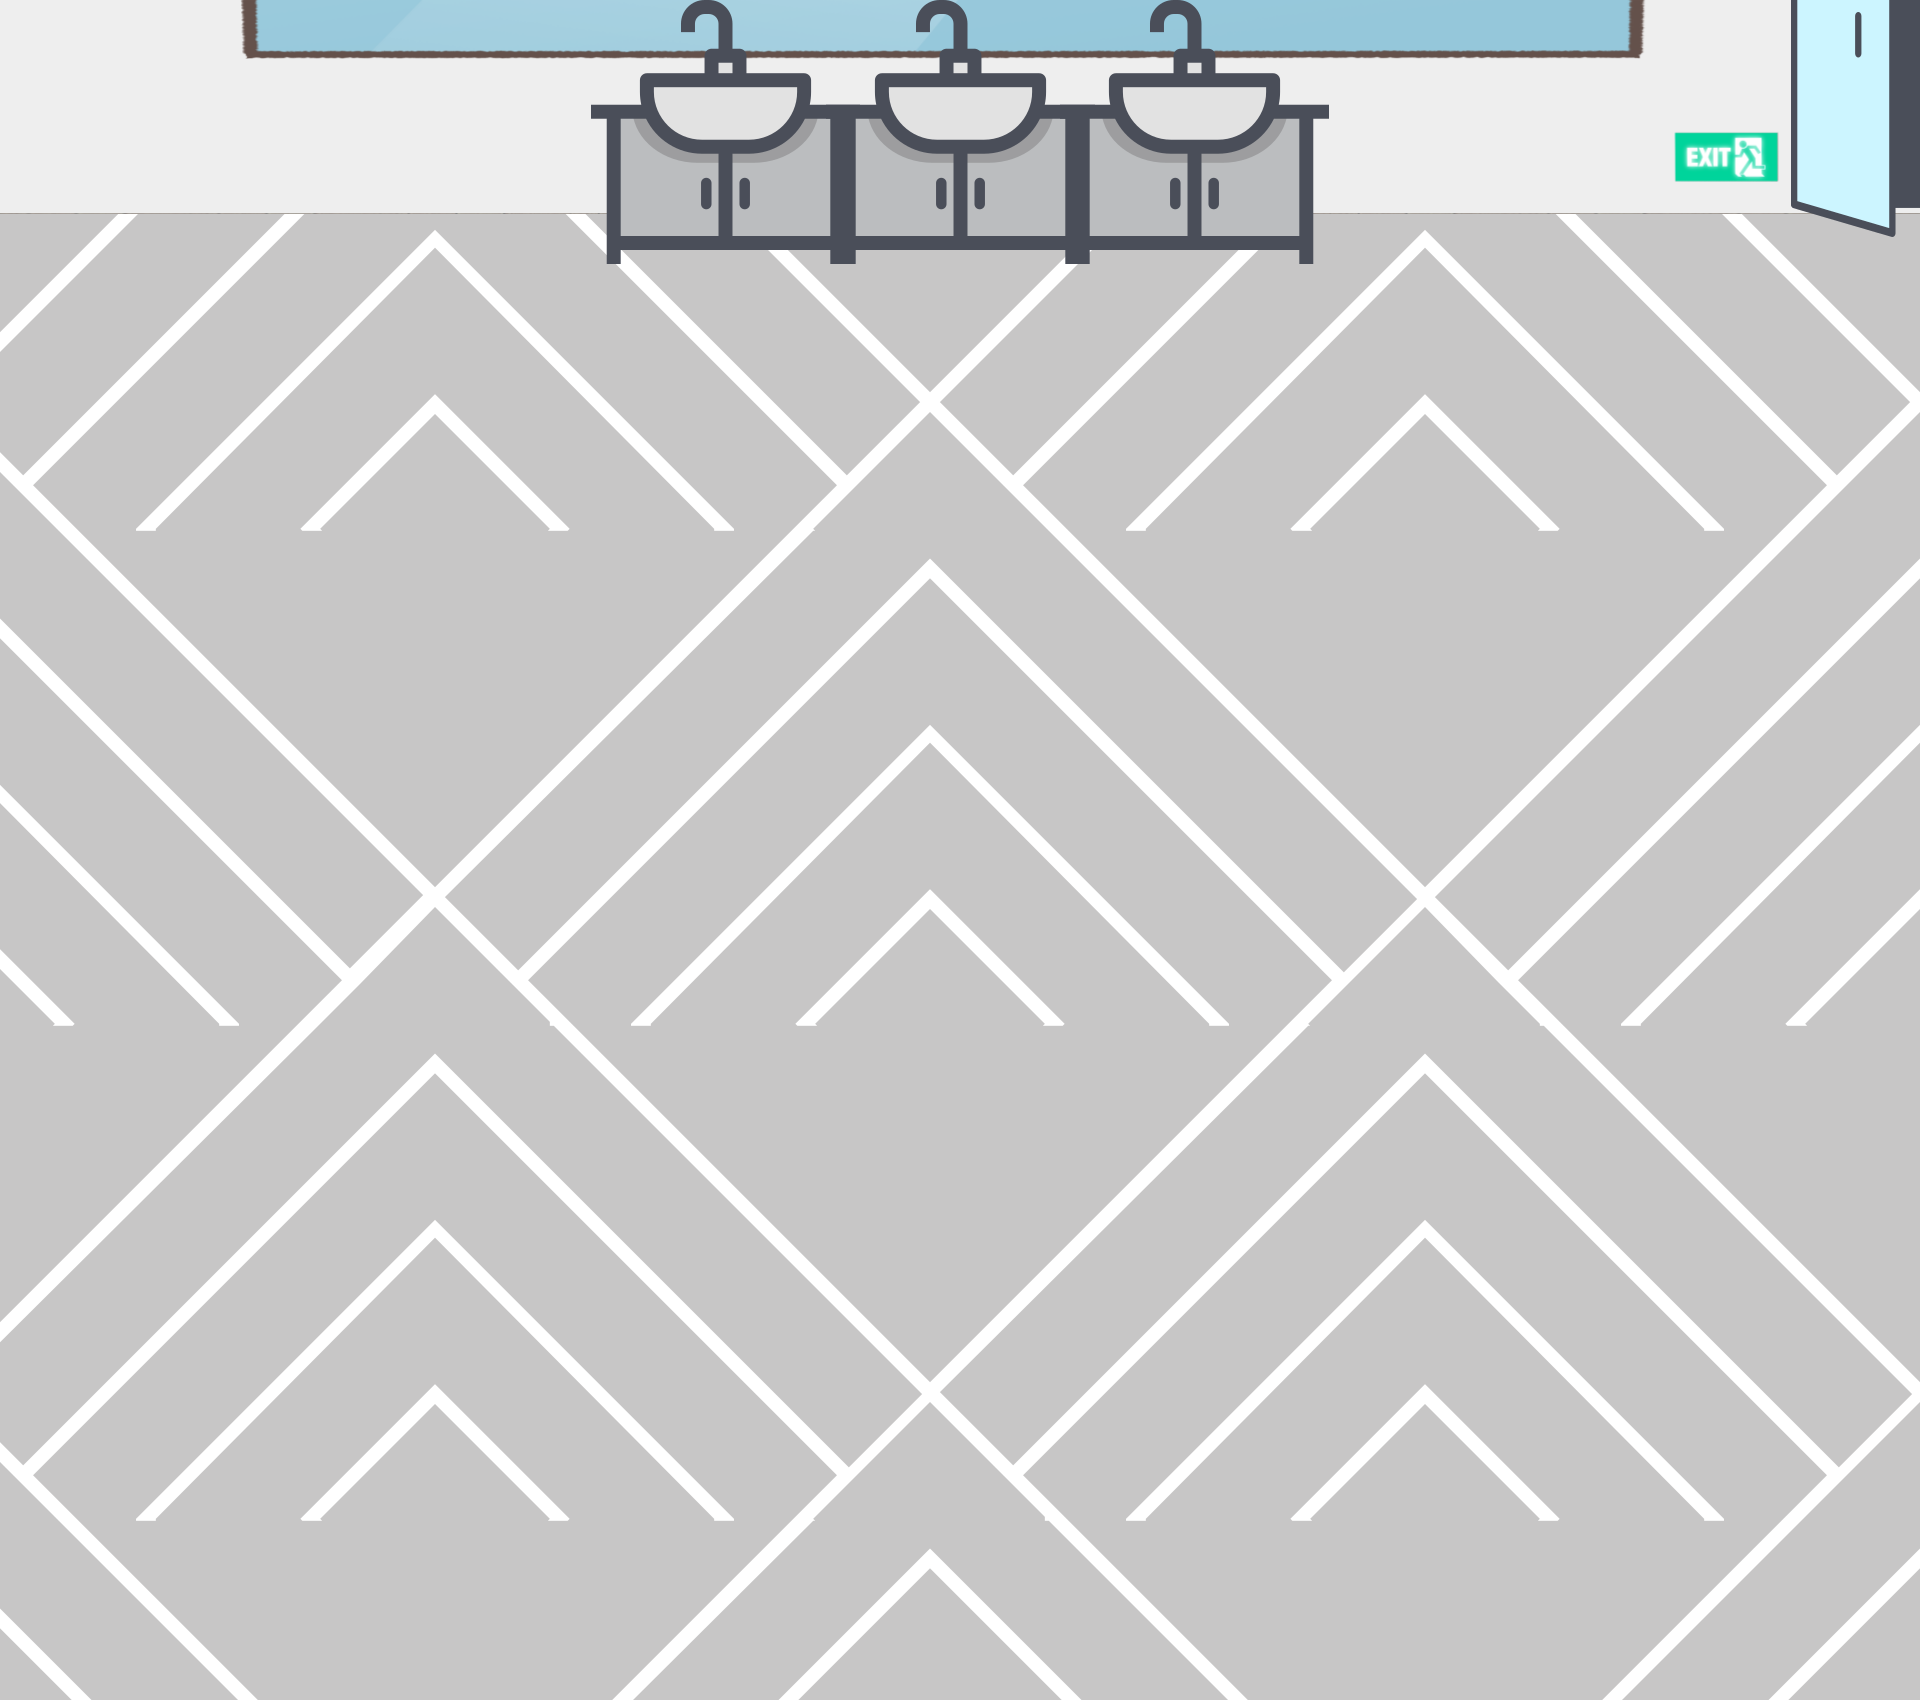
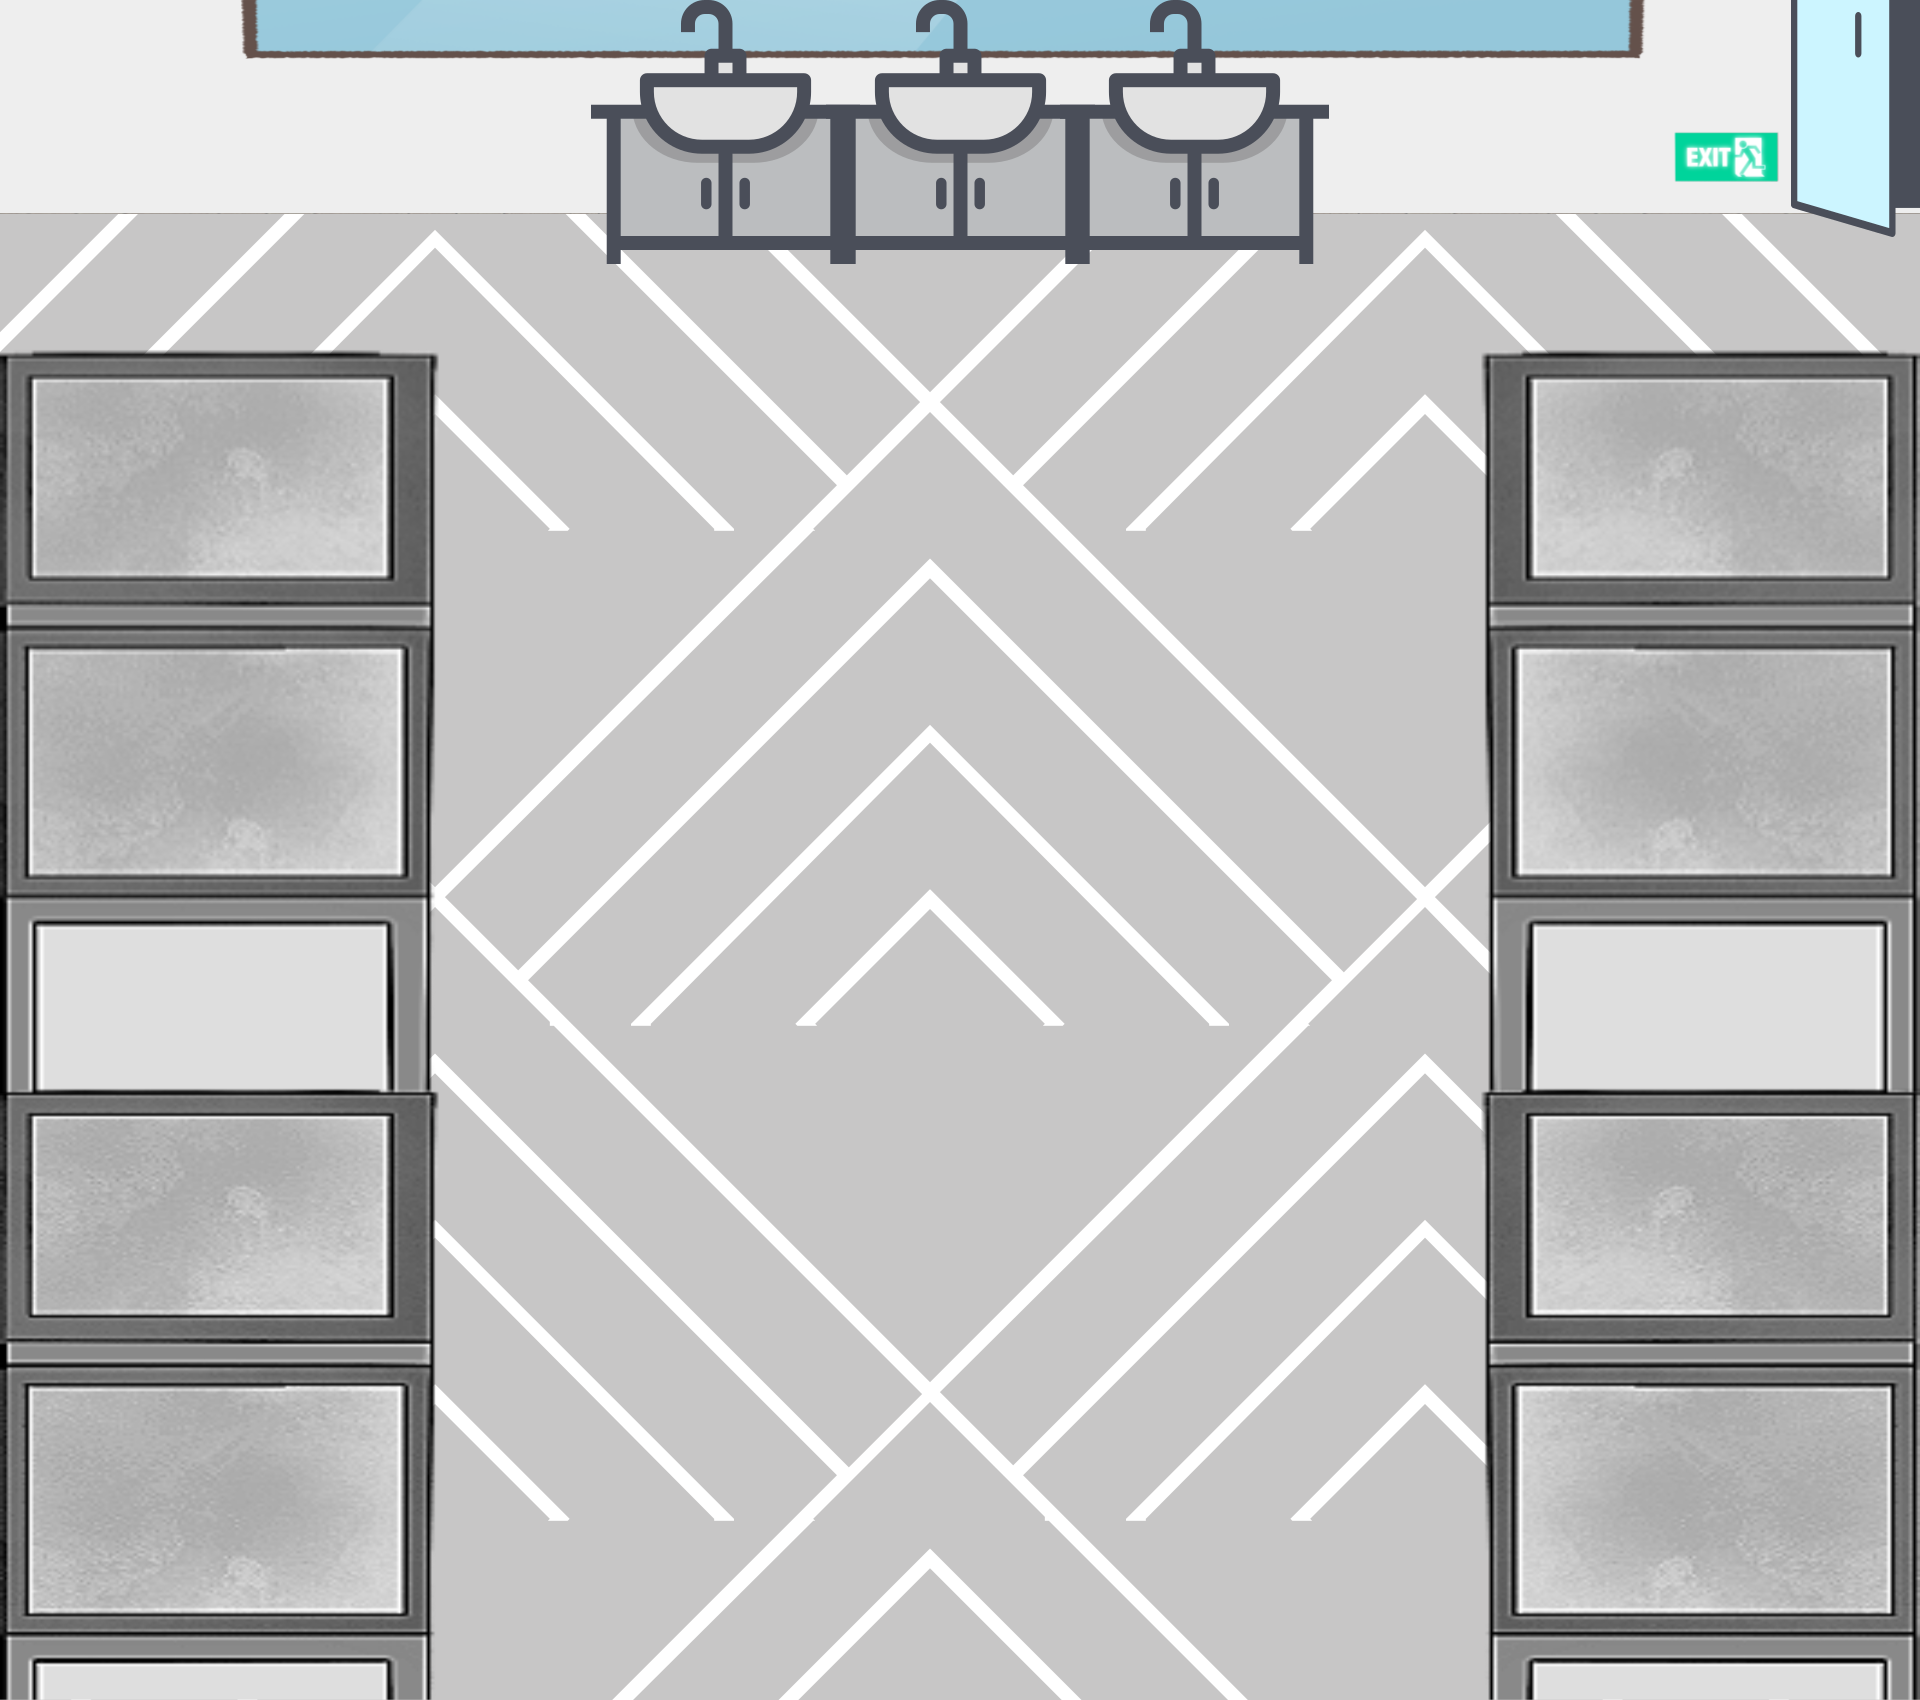
Stage Update 5

Changed region(s): [[0.0, 0.1871, 0.25, 1.0], [0.75, 0.1871, 1.0, 1.0]]

diff --git a/stages/stage5.html b/stages/stage5.html
@@ -4,16 +4,50 @@
     <script type="text/javascript" src="../js/stage.js"></script>
     <style>
         body {
-            /* background-image: url("../img/stage5.png"); */
-            background-color: white;
+            background-image: url("../img/stage5.png");
+        }
+        .blind{
+            opacity:0;
+            transition: all 2s;
+            position: absolute;
+            background-color: black;
+            width: 100%;
+            height: 100%;
+            left: 0px;
+            top: 0px;
         }
     </style>
+    <script>
+        let autoBlind;
+
+        function init(){
+            autoBlind = document.body.querySelector('#blind');
+            blindAuto()
+        }
+
+        function manual(){
+            // document.body.classList.add('.blind')
+            autoBlind.style.opacity = '1'
+            document.body.querySelector('.character').style.display = 'none';
+
+            setTimeout(function(){
+                // document.body.querySelector('.character').style.display = 'block';
+                document.body.classList.remove('.blind')
+                autoBlind.style.opacity = '0'
+            }, 5000);
+        }
+
+        function blindAuto(){
+            let st = setInterval("manual()", 10000);
+        }
+    </script>
 </head>
-<body>
+<body onload="init()">
     <div class="subtitle">
         <div class="place p1">현재 위치</div>
         <div class="place p2">과학실</div>
     </div>
+    <div id="blind" class="blind"></div>
     <div class="character"><img src="../icon/chracter.gif"></div>
 	<script type="text/javascript" src="../js/character.js"></script>
 </body>

diff --git a/stages/stage3.html b/stages/stage3.html
@@ -18,7 +18,7 @@
         }
         .toilet{
             display: inline-block;
-            width: 300px;
+            width: 400px;
             height: 300px;
             border: 1px solid red;
         }
@@ -38,6 +38,13 @@
         }
         .check3{
             display: none;
+        }
+        .talk{
+            height: 100%;
+            display: flex;
+            align-items: flex-end;
+            padding-right: 35%;
+            justify-content: center;
         }
     </style>
 </head>
@@ -62,6 +69,10 @@
             화장실 4
         </div>
     </div>
+    <div class="talk">
+        <p style="position: absolute; bottom: 120px;">어떡하지... 휴지가 없어</p>
+        <img src="../icon/talk.png">
+    </div>
     <div class="next check3" onmouseover="nextstage(4)" style="top: 900px; left: 48%">next !!</div>
     <img src="../icon/wastepaper.png" id="wastepaper">
     <div class="character"><img src="../icon/chracter.gif"></div>
@@ -75,8 +86,9 @@
             let Y = wp.style.top;
             X = X.replace('/[^0-9]/g','');
             Y = Y.replace('/[^0-9]/g','');
-            if(X < '260' && Y > '600'){
+            if(X < '360' && Y > '600'){
                 document.body.querySelector('.check3').style.display = 'block';
+                document.body.querySelector('.talk').style.display = 'none';
                 wp.style.display = 'none';
             }
         }
